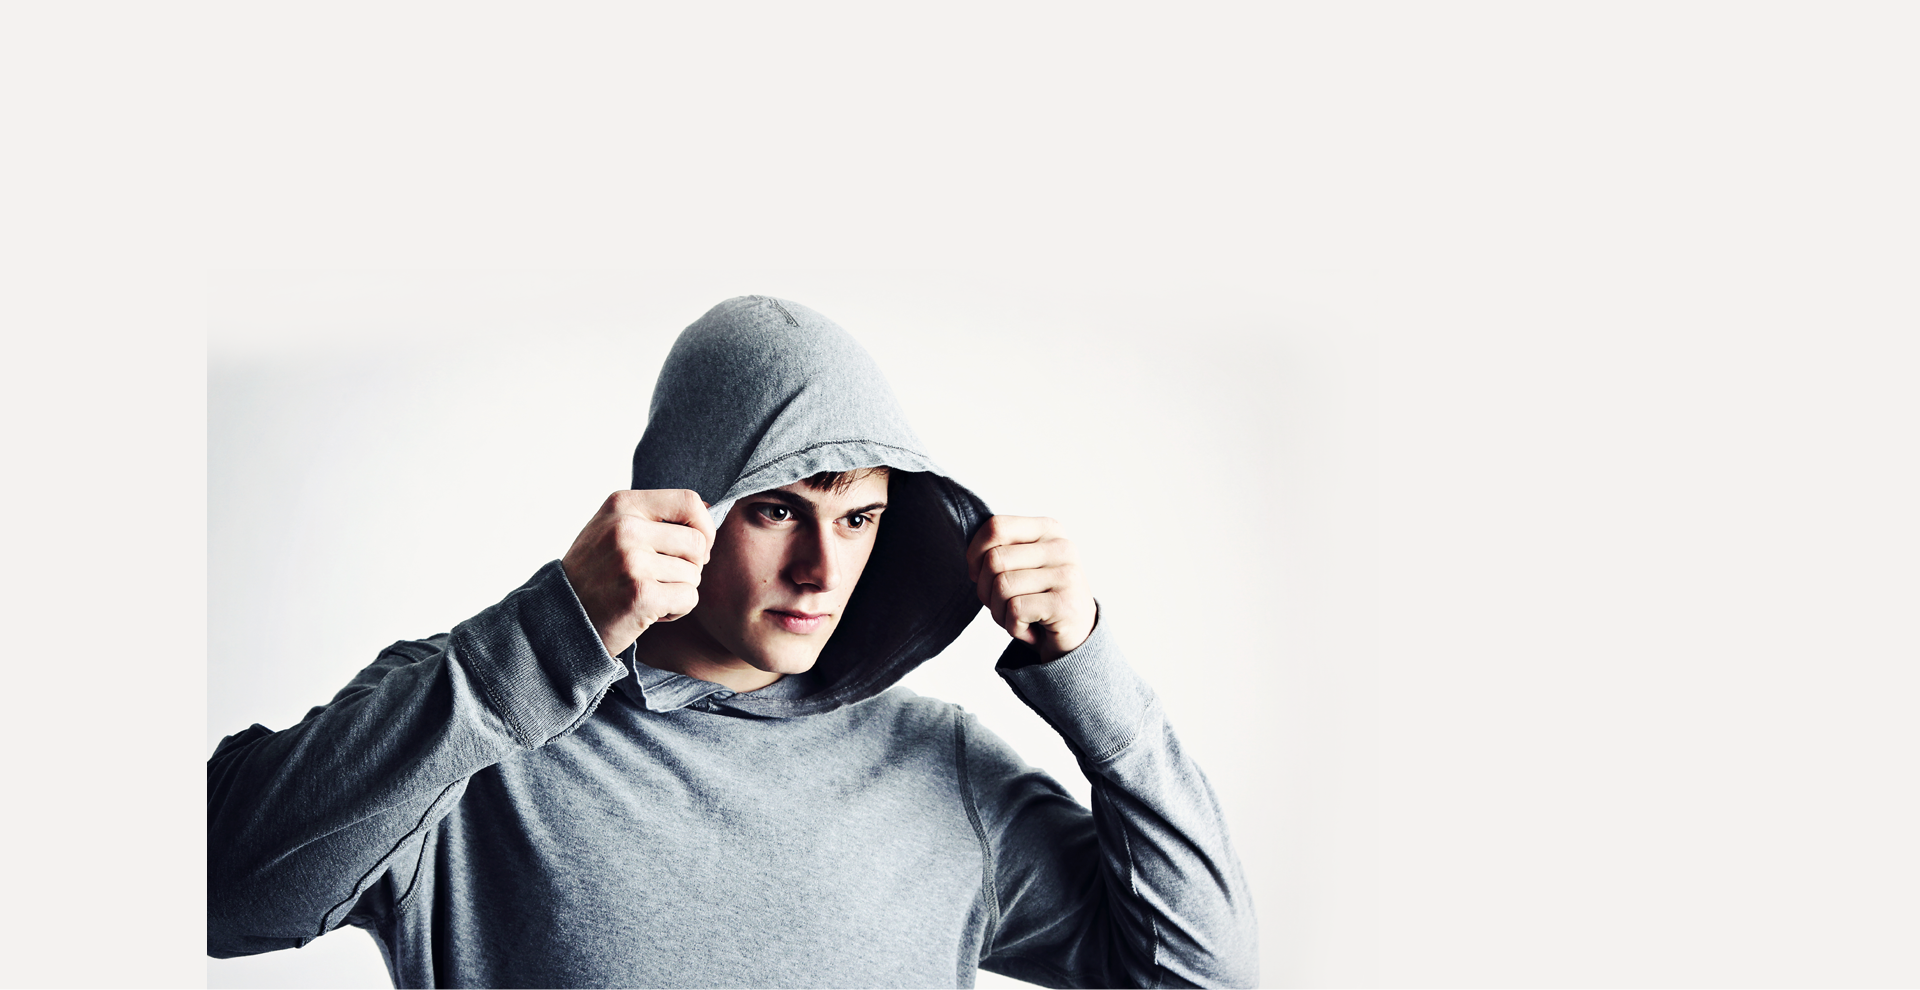
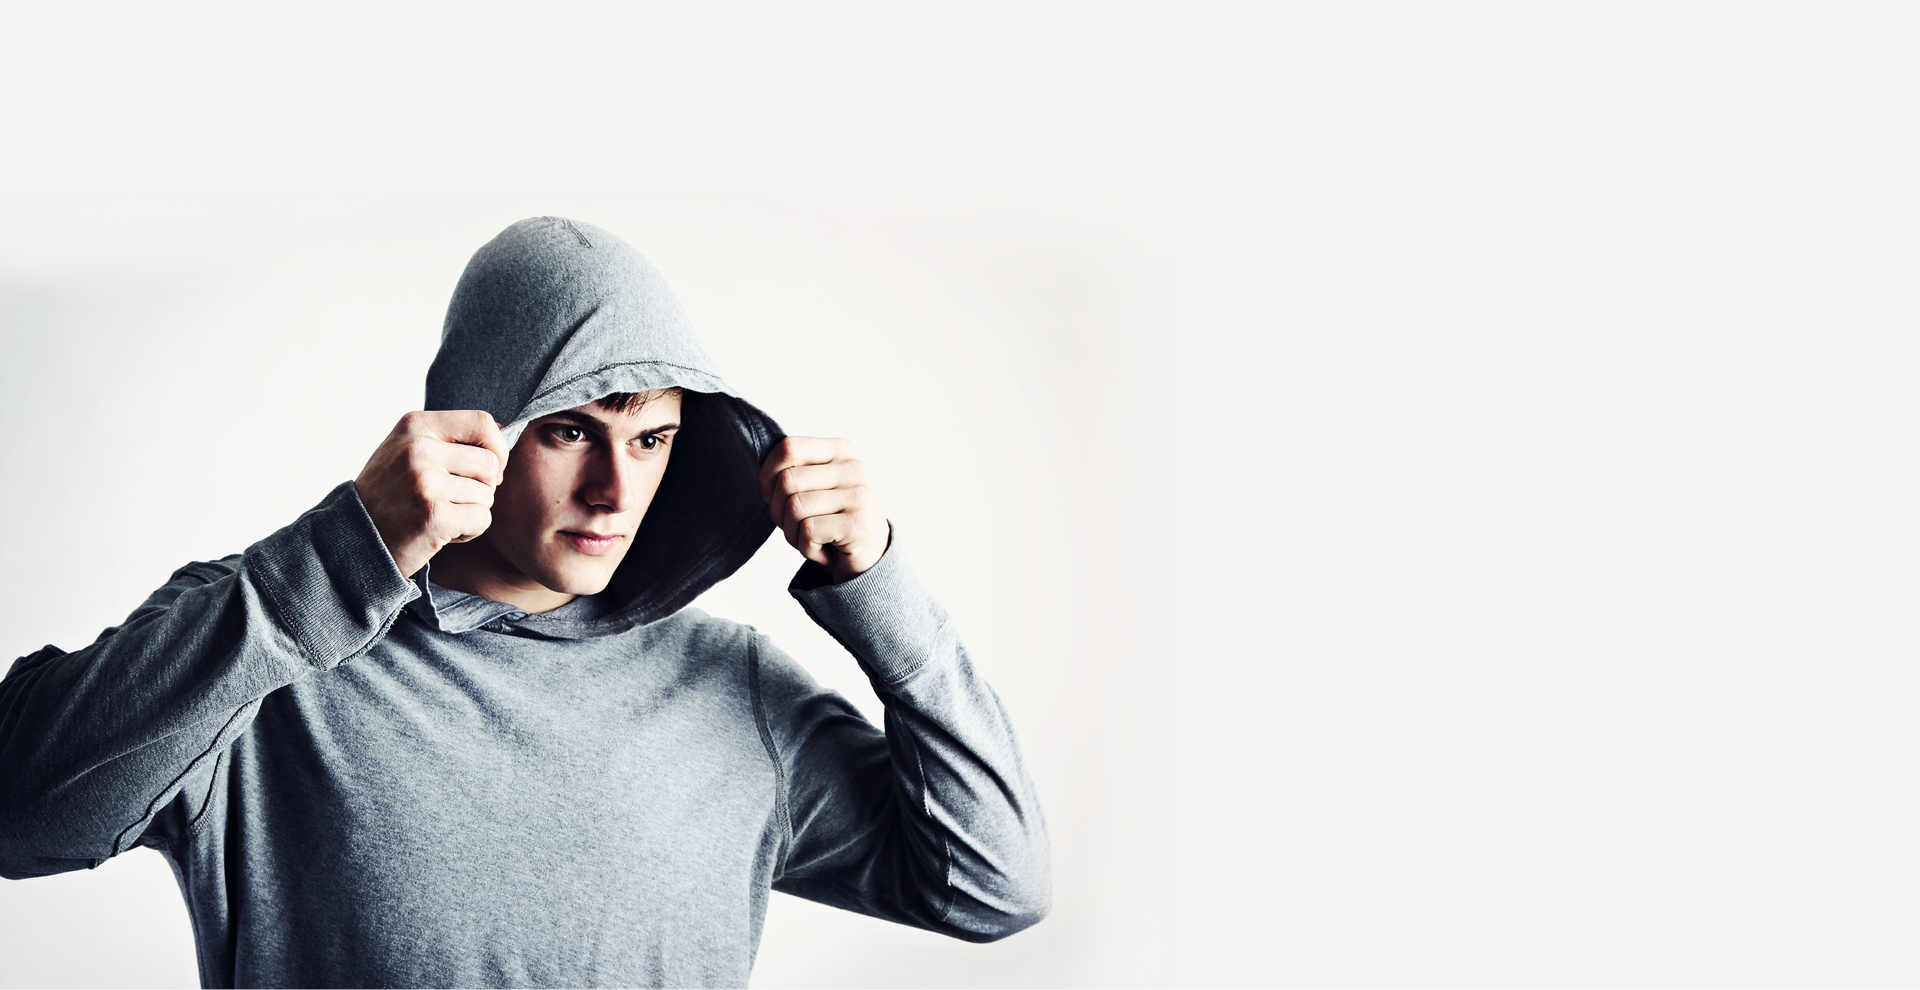
added html

Changed region(s): [[0.0, 0.2121, 0.6562, 1.0], [0.0938, 0.3939, 0.125, 0.5152]]

diff --git a/index.html b/index.html
@@ -24,39 +24,177 @@
 <section class="banner-bg bg-grey">
     
   <!-- Navigation -->
-<nav class="navbar navbar-expand-sm navbar-light bg-light">
-  <a class="navbar-brand" href="#">Portfolio</a>
-  <button class="navbar-toggler d-lg-none" type="button" data-toggle="collapse" data-target="#collapsibleNavId" aria-controls="collapsibleNavId"
-      aria-expanded="false" aria-label="Toggle navigation">
-    <span class="navbar-toggler-icon"></span>
-  </button>
-  <div class="collapse navbar-collapse" id="collapsibleNavId">
-    <ul class="navbar-nav ml-auto mt-2 mt-lg-0">
-      <li class="nav-item active">
-        <a class="nav-link" href="#">Home </a>
-      </li>
-      <li class="nav-item">
-        <a class="nav-link" href="#">Work</a>
-      </li>
-      <li class="nav-item">
-        <a class="nav-link" href="#">Blog</a>
-      </li>
-      <li class="nav-item">
-        <a class="btn btn-dark" href="#">Hire Me!</a>
-      </li>
-    </ul>
-  </div>
-</nav>
+    <nav class="navbar navbar-expand-sm navbar-light bg-light">
+      <a class="navbar-brand" href="#">Portfolio</a>
+      <button class="navbar-toggler d-lg-none" type="button" data-toggle="collapse" data-target="#collapsibleNavId" aria-controls="collapsibleNavId"
+          aria-expanded="false" aria-label="Toggle navigation">
+        <span class="navbar-toggler-icon"></span>
+      </button>
+      <div class="collapse navbar-collapse" id="collapsibleNavId">
+        <ul class="navbar-nav ml-auto mt-2 mt-lg-0">
+          <li class="nav-item active">
+            <a class="nav-link" href="#">Home </a>
+          </li>
+          <li class="nav-item">
+            <a class="nav-link" href="#">Work</a>
+          </li>
+          <li class="nav-item">
+            <a class="nav-link" href="#">Blog</a>
+          </li>
+          <li class="nav-item">
+            <a class="btn btn-dark" href="#">Hire Me!</a>
+          </li>
+        </ul>
+      </div>
+    </nav>
     <div class="container">
       <div class="row">
-        <div class="col-md-6"></div>
         <div class="col-md-6">
-          
+          <img src="assets/images/banner.png" alt="" class="img-fluid">
+        </div>
+        <div class="col-md-6">
+          <h4>Hello, I’m Deeje</h4>
+          <h2>Expert in Graphic 
+            Design &Development</h2>
+        <p>Currently available for select projects, collaborations and consulting.Currently available for select projects, collaborations and consulting.</p>
+        <button type="button" class="btn btn-primary text-uppercase">see my work</button>
+          </div>
+      </div>
+    </div>
+  </section>
+
+
+ <!-- SERVICES -->
+  <section class="section-wrapper bg-light">
+    <div class="container">
+      <div class="row">
+        <div class="col-md-12">
+          <h2 class="text-uppercase">services</h2>
+        </div>
+        <div class="col-md-4">
+        <div class="card">
+          <div class="card-header">
+            <i class="fas fa-fill-drip fa-2x"></i>
+            <h5 class="text-uppercase font-weight-bold">web design</h5>
+            <p>Well we're movin' on up to the east side. To a deluxe apartment in the sky.</p>
+          </div>
+        </div>
+        </div>
+        <div class="col-md-4">
+        <div class="card">
+          <div class="card-header">
+            <i class="fas fa-gem fa-2x"></i>
+            <h5 class="text-uppercase font-weight-bold">mobile app</h5>
+            <p>Well we're movin' on up to the east side. To a deluxe apartment in the sky.</p>
+          </div>
+        </div>
+        </div>
+        <div class="col-md-4">
+        <div class="card">
+          <div class="card-header">
+            <i class="fas fa-magic fa-2x"></i>
+            <h5 class="text-uppercase font-weight-bold">branding</h5>
+            <p>Well we're movin' on up to the east side. To a deluxe apartment in the sky.</p>
+          </div>
+        </div>
         </div>
       </div>
     </div>
   </section>
 
+    <!-- PORTFOLIO -->
+    <section class="section-wrapper bg-dark">
+      <div class="container">
+        <div class="row">
+          <div class="col-md-12 text-uppercase">
+            portfolio
+          </div>
+          <div class="col-md-12">
+
+          </div>
+        </div>
+      </div>
+  </section>
+
+  <!-- HIREME -->
+  <section class="section-wrapper bg-light">
+    <div class="container">
+      <div class="row">
+          <div class="col-md-8">
+            <h2>Make It Awesome!</h2>
+            <p>There's nothing we wont try. Never heard the word impossible. This time there's no stopping us. The year is 1987 and NASA launches the last of Americas deep space probes.</p>
+          </div>
+          <div class="col-md-4">
+            <button class="btn btn-primary">Hire Me Now!</button>
+          </div>
+      </div>
+    </div>
+  </section>
+
+    <!-- TESTIMONIAL -->
+    <section class="section-wrapper bg-dark">
+      <div class="container">
+        <div class="row">
+            <div class="col-md-12">
+              <h1>Clients
+                <br>
+                Feedback about me
+              </h1>
+              
+            </div>
+        </div>
+      </div>
+    </section>
+
+        <!-- FOOTER -->
+        <footer class="section-wrapper bg-light">
+          <div class="container">
+            <div class="row">
+                <div class="col-md-12">
+                  <nav class="navbar navbar-expand-sm navbar-light bg-light">
+                    <button class="navbar-toggler d-lg-none" type="button" data-toggle="collapse" data-target="#collapsibleNavId" aria-controls="collapsibleNavId"
+                        aria-expanded="false" aria-label="Toggle navigation">
+                      <span class="navbar-toggler-icon"></span>
+                    </button>
+                    <div class="collapse navbar-collapse" id="collapsibleNavId">
+                      <ul class="navbar-nav mx-auto mt-2 mt-lg-0">
+                        <li class="nav-item active">
+                          <a class="nav-link" href="#">Home </a>
+                        </li>
+                        <li class="nav-item active">
+                          <a class="nav-link" href="#">About Me </a>
+                        </li>
+                        <li class="nav-item">
+                          <a class="nav-link" href="#">Work</a>
+                        </li>
+                        <li class="nav-item">
+                          <a class="nav-link" href="#">Blog</a>
+                        </li>
+                        <form class="form-inline my-2 my-lg-0">
+                          <input class="form-control mr-sm-2" type="search" placeholder="Search" aria-label="Search">
+                          <button class="btn btn-outline-success my-2 my-sm-0" type="submit">Search</button>
+                        </form>
+                      </ul>
+                    </div>
+                  </nav>
+                </div>
+            </div>
+            <div class="row">
+              <div class="col-md-12">
+                <ul class="list-unstyled d-flex">
+                  <li><i class="fab fa-facebook-f"></i></li>
+                  <li><i class="fab fa-twitter"></i></li>
+                  <li><i class="fab fa-instagram"></i></li>
+                  <li><i class="fab fa-youtube"></i></li>
+                </ul>
+                <hr>
+                <div class="col-md-12">
+                  <p>Copyright &copy;2017. Portfolio By ShamontiHaque </p>
+                </div>
+              </div>
+            </div>
+          </div>
+        </footer>
     <!-- JavaScript -->
     <!-- jQuery first, then Popper.js, then Bootstrap JS -->
     <script src="assets/js/jquery-3.5.1.min.js"></script>
